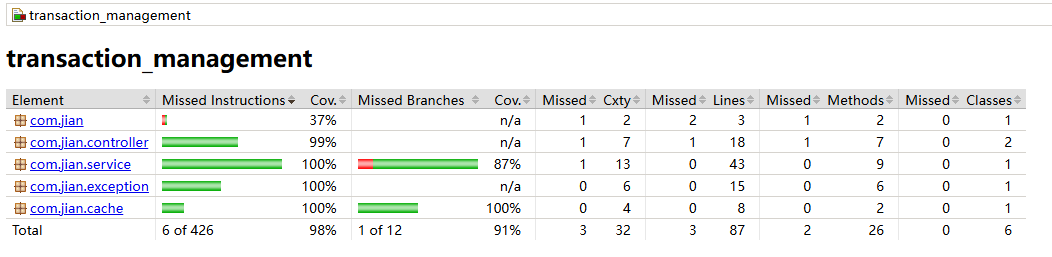
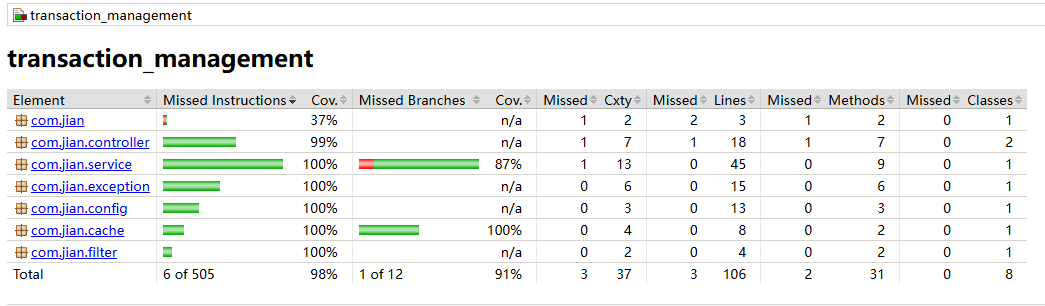
add log filter and modify caching

Changed region(s): [[0.0, 0.1556, 1.0, 0.9339], [0.0, 0.0, 1.0, 0.1245], [0.0306, 0.965, 1.0, 0.9961]]

diff --git a/src/main/java/com/jian/service/TransactionService.java b/src/main/java/com/jian/service/TransactionService.java
@@ -32,23 +32,26 @@ public class TransactionService {
         if (cache != null) {
             return convertToTransaction(cache);
         }
+        log.info("record not in cache");
         var transactionEntity = findFromDB(id);
         return convertToTransaction(transactionEntity);
     }
 
-    @CachePut(value = Constants.CACHE_TRANSACTION_KEY_PREFIX, key = "#result.id", unless = "#result == null")
+    @Caching(
+            put = {
+                    @CachePut(value = Constants.CACHE_TRANSACTION_KEY_PREFIX, key = "#result.id")
+            })
     public TransactionEntity findFromDB(Long id) {
         return transactionRepository.findById(id).orElseThrow(() -> new BusinessException("transaction not found"));
     }
 
     // add new record to DB and update cache
     @Caching(evict = {
-            @CacheEvict(value = Constants.CACHE_TRANSACTION_KEY_PREFIX, key = "#result.id"),
             @CacheEvict(value = Constants.CACHE_TRANSACTIONS_KEY_PREFIX, allEntries = true)
     },
             put = {
-            @CachePut(value = Constants.CACHE_TRANSACTION_KEY_PREFIX, key = "#result.id")
-    })
+                    @CachePut(value = Constants.CACHE_TRANSACTION_KEY_PREFIX, key = "#result.id")
+            })
     public TransactionEntity transfer(Transaction transaction) {
         var transactionEntity = new TransactionEntity();
         transactionEntity.setAmount(transaction.getAmount());
@@ -74,12 +77,11 @@ public class TransactionService {
 
     // update record to DB and update cache
     @Caching(evict = {
-            @CacheEvict(value = Constants.CACHE_TRANSACTION_KEY_PREFIX, key = "#result.id"),
             @CacheEvict(value = Constants.CACHE_TRANSACTIONS_KEY_PREFIX, allEntries = true)
     },
             put = {
-            @CachePut(value = Constants.CACHE_TRANSACTION_KEY_PREFIX, key = "#result.id")
-    })
+                    @CachePut(value = Constants.CACHE_TRANSACTION_KEY_PREFIX, key = "#result.id")
+            })
     public TransactionEntity updateTransaction(Transaction transaction) {
         var id = transaction.getId();
         if (id == null) {
@@ -94,6 +96,7 @@ public class TransactionService {
         if (transaction.getMemo() != null) {
             transactionInDB.setMemo(transaction.getMemo());
         }
+        log.info("update transaction id {}", id);
         return transactionRepository.save(transactionInDB);
     }
 

diff --git a/src/main/java/com/jian/config/Configs.java b/src/main/java/com/jian/config/Configs.java
@@ -1,0 +1,42 @@
+package com.jian.config;
+
+import com.jian.common.util.Constants;
+import com.jian.filter.LogFilter;
+import org.springframework.boot.web.servlet.FilterRegistrationBean;
+import org.springframework.cache.Cache;
+import org.springframework.cache.CacheManager;
+import org.springframework.cache.concurrent.ConcurrentMapCache;
+import org.springframework.cache.support.SimpleCacheManager;
+import org.springframework.context.annotation.Bean;
+import org.springframework.context.annotation.Configuration;
+
+import java.util.ArrayList;
+import java.util.Arrays;
+import java.util.List;
+
+@Configuration
+public class Configs {
+
+    @Bean
+    public FilterRegistrationBean<LogFilter> logFilter() {
+        var logFilterFilterRegistrationBean = new FilterRegistrationBean<LogFilter>();
+        logFilterFilterRegistrationBean.setFilter(new LogFilter());
+        List<String> urlPatterns = new ArrayList<>();
+        urlPatterns.add("/*");
+        logFilterFilterRegistrationBean.setUrlPatterns(urlPatterns);
+        logFilterFilterRegistrationBean.setOrder(1);
+        return logFilterFilterRegistrationBean;
+    }
+
+    @Bean
+    public CacheManager cacheManager() {
+        SimpleCacheManager cacheManager = new SimpleCacheManager();
+        Cache transactionsCache = new ConcurrentMapCache(Constants.CACHE_TRANSACTION_KEY_PREFIX);
+        Cache transactionCache = new ConcurrentMapCache(Constants.CACHE_TRANSACTIONS_KEY_PREFIX);
+        cacheManager.setCaches(Arrays.asList(transactionsCache, transactionCache));
+
+        return cacheManager;
+    }
+
+
+}

diff --git a/src/test/java/com/jian/filter/LogFilterTest.java b/src/test/java/com/jian/filter/LogFilterTest.java
@@ -1,0 +1,31 @@
+package com.jian.filter;
+
+import org.junit.jupiter.api.BeforeEach;
+import org.junit.jupiter.api.Test;
+import org.springframework.mock.web.MockFilterChain;
+import org.springframework.mock.web.MockHttpServletRequest;
+import org.springframework.mock.web.MockHttpServletResponse;
+
+import static org.junit.jupiter.api.Assertions.assertTrue;
+
+class LogFilterTest {
+
+    private LogFilter logFilterUnderTest;
+
+    @BeforeEach
+    void setUp() {
+        logFilterUnderTest = new LogFilter();
+    }
+
+    @Test
+    void testDoFilterInternal() throws Exception {
+        // Setup
+        final MockHttpServletRequest request = new MockHttpServletRequest();
+        final MockHttpServletResponse response = new MockHttpServletResponse();
+        final MockFilterChain filterChain = new MockFilterChain();
+
+        // Run the test
+        logFilterUnderTest.doFilterInternal(request, response, filterChain);
+        assertTrue(true);
+    }
+}

diff --git a/src/main/java/com/jian/filter/LogFilter.java b/src/main/java/com/jian/filter/LogFilter.java
@@ -1,0 +1,21 @@
+package com.jian.filter;
+
+import jakarta.servlet.FilterChain;
+import jakarta.servlet.ServletException;
+import jakarta.servlet.annotation.WebFilter;
+import jakarta.servlet.http.HttpServletRequest;
+import jakarta.servlet.http.HttpServletResponse;
+import org.slf4j.MDC;
+import org.springframework.web.filter.OncePerRequestFilter;
+
+import java.io.IOException;
+import java.util.UUID;
+
+@WebFilter
+public class LogFilter extends OncePerRequestFilter {
+    @Override
+    protected void doFilterInternal(HttpServletRequest request, HttpServletResponse response, FilterChain filterChain) throws ServletException, IOException {
+        MDC.put("traceId", UUID.randomUUID().toString().replace("-", ""));
+        filterChain.doFilter(request, response);
+    }
+}

diff --git a/src/test/java/com/jian/config/ConfigsTest.java b/src/test/java/com/jian/config/ConfigsTest.java
@@ -1,0 +1,32 @@
+package com.jian.config;
+
+import org.junit.jupiter.api.BeforeEach;
+import org.junit.jupiter.api.Test;
+
+import static org.junit.jupiter.api.Assertions.assertNotNull;
+
+class ConfigsTest {
+
+    private Configs configsUnderTest;
+
+    @BeforeEach
+    void setUp() {
+        configsUnderTest = new Configs();
+    }
+
+    @Test
+    void testLogFilter() {
+        // Setup
+        // Run the test
+        var result = configsUnderTest.logFilter();
+
+        // Verify the results
+        assertNotNull(result);
+    }
+
+    @Test
+    void testCacheManager() {
+        var result = configsUnderTest.cacheManager();
+        assertNotNull(result);
+    }
+}
